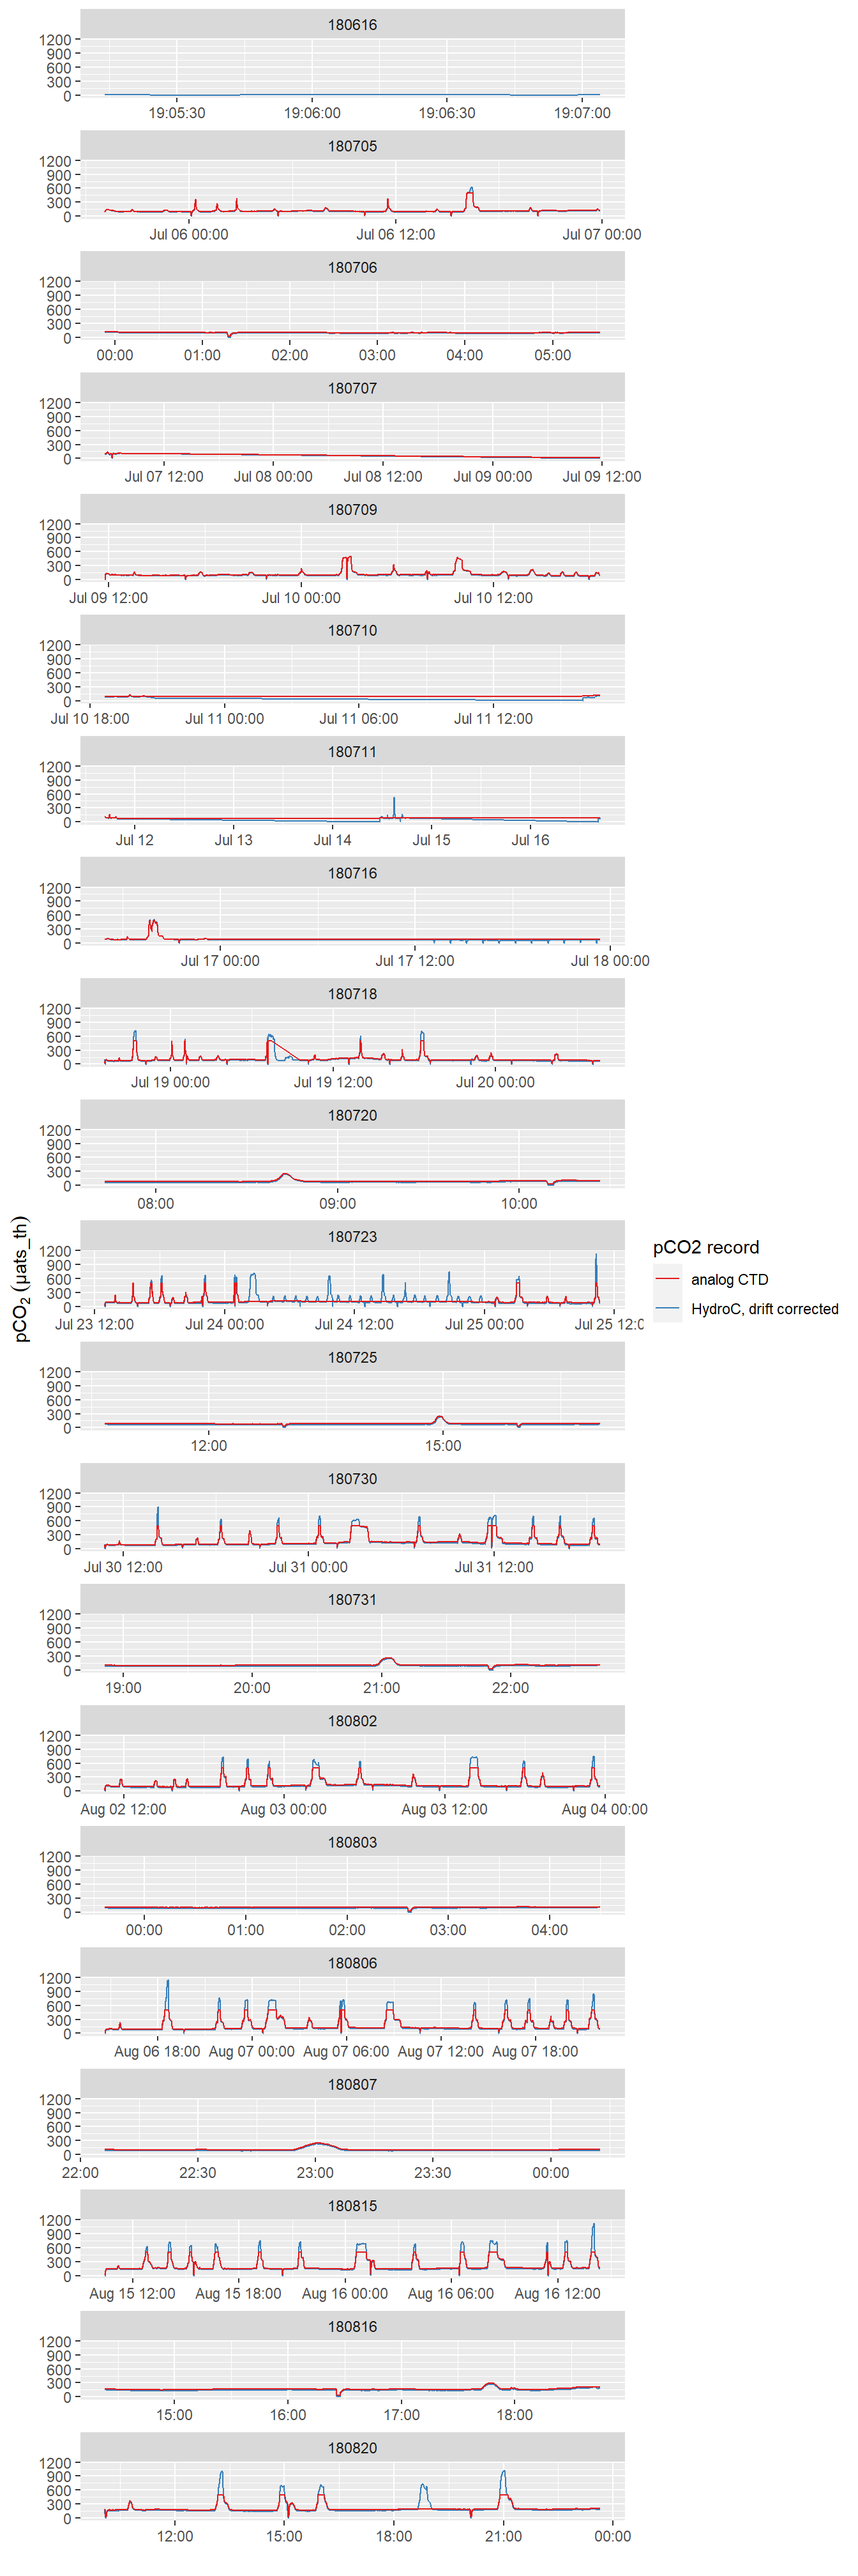
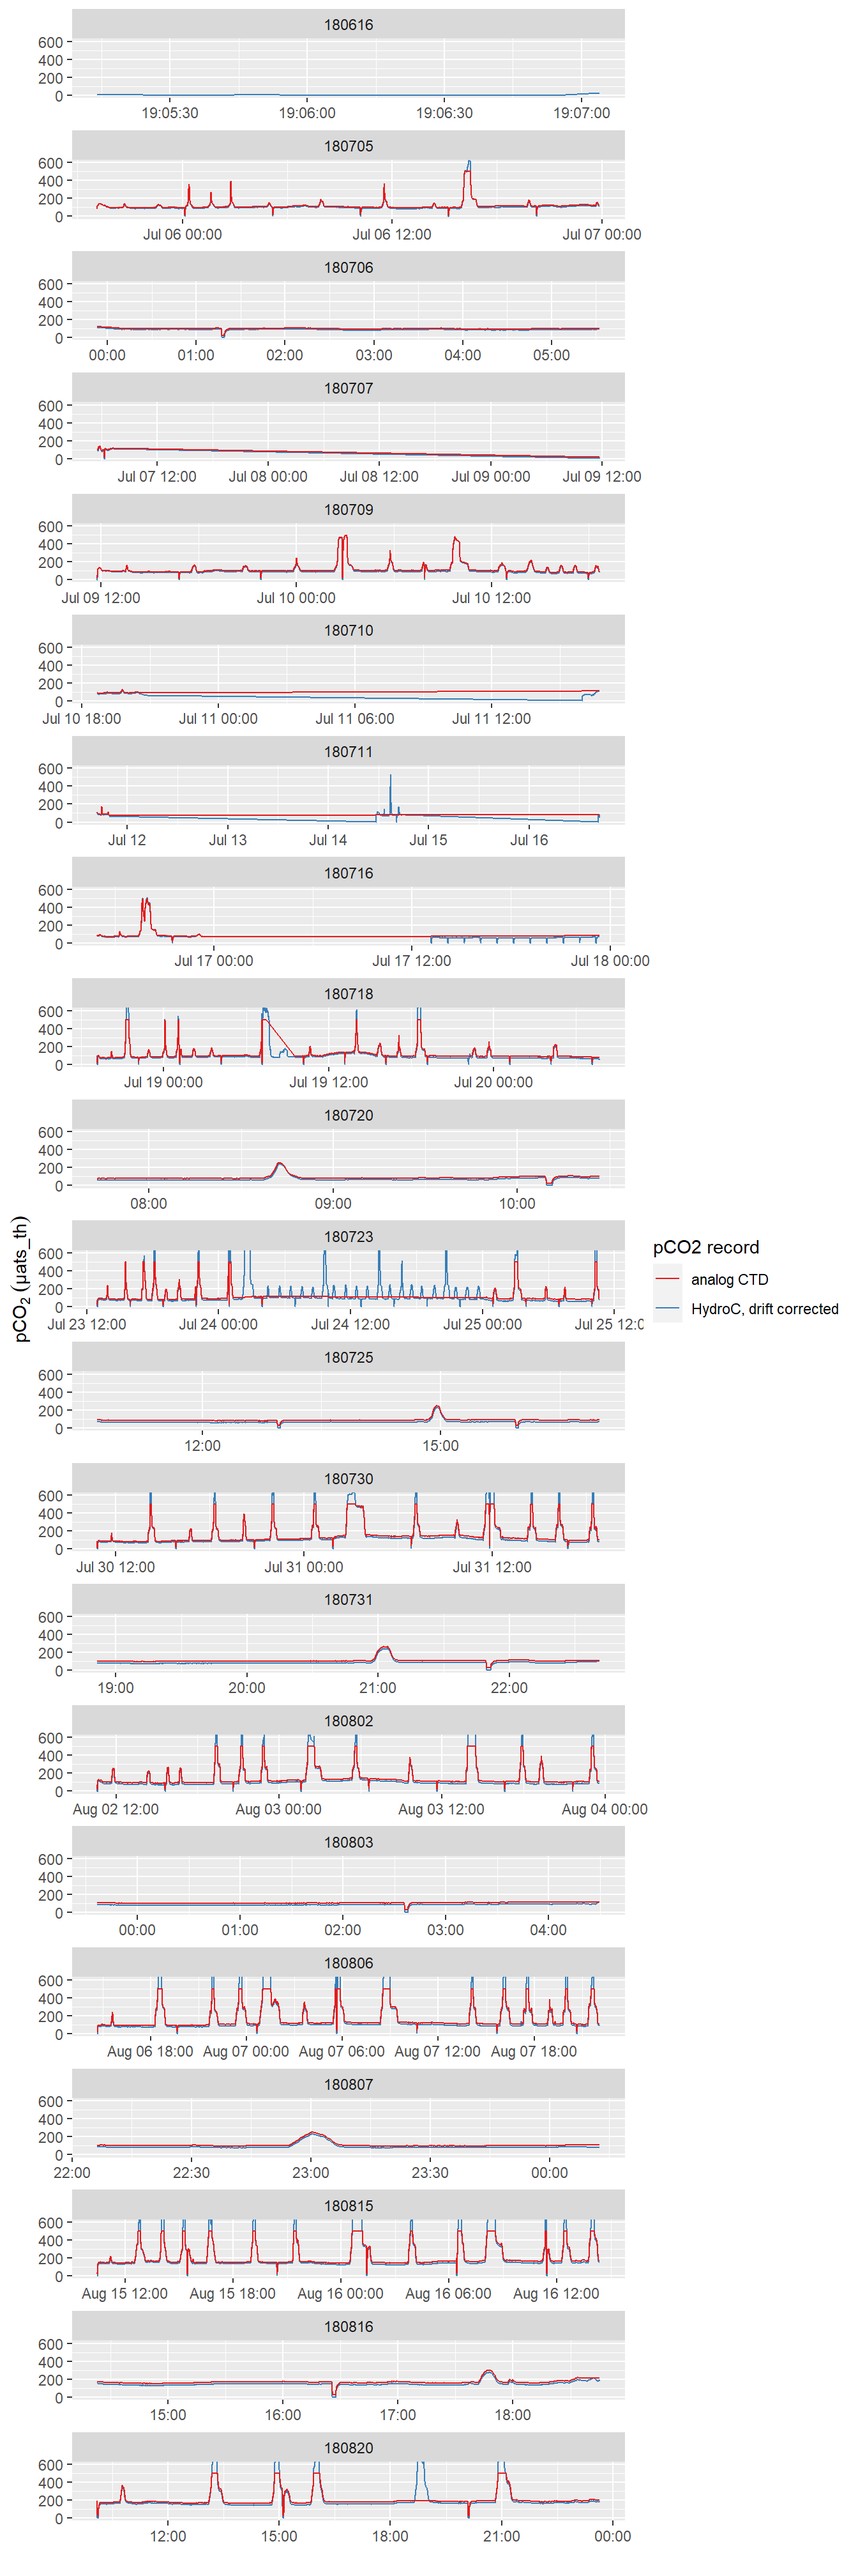
Build site.

diff --git a/docs/merging_interpolation.html b/docs/merging_interpolation.html
@@ -442,7 +442,7 @@ div.tocify {
 
 <h1 class="title toc-ignore">Merging and interpolation of observations</h1>
 <h4 class="author">Jens Daniel Müller</h4>
-<h4 class="date">30 April, 2020</h4>
+<h4 class="date">04 May, 2020</h4>
 
 </div>
 
@@ -467,7 +467,7 @@ div.tocify {
 <div class="tab-content">
 <div id="summary" class="tab-pane fade in active">
 <p>
-<strong>Last updated:</strong> 2020-04-30
+<strong>Last updated:</strong> 2020-05-04
 </p>
 <p>
 <strong>Checks:</strong> <span class="glyphicon glyphicon-ok text-success" aria-hidden="true"></span> 7 <span class="glyphicon glyphicon-exclamation-sign text-danger" aria-hidden="true"></span> 0
@@ -558,16 +558,16 @@ This reproducible <a href="http://rmarkdown.rstudio.com">R Markdown</a> analysis
 <div class="panel panel-default">
 <div class="panel-heading">
 <p class="panel-title">
-<a data-toggle="collapse" data-parent="#workflowr-checks" href="#strongRepositoryversionstrongahrefhttpsgithubcomjensdanielmuellerBloomSailtree4f4ab082c406ae068b2265a5a861a26edc285dc6targetblank4f4ab08a"> <span class="glyphicon glyphicon-ok text-success" aria-hidden="true"></span> <strong>Repository version:</strong> <a href="https://github.com/jens-daniel-mueller/BloomSail/tree/4f4ab082c406ae068b2265a5a861a26edc285dc6" target="_blank">4f4ab08</a> </a>
+<a data-toggle="collapse" data-parent="#workflowr-checks" href="#strongRepositoryversionstrongahrefhttpsgithubcomjensdanielmuellerBloomSailtree30675329fe6a267b90c54a636a053f41cdd5b00etargetblank3067532a"> <span class="glyphicon glyphicon-ok text-success" aria-hidden="true"></span> <strong>Repository version:</strong> <a href="https://github.com/jens-daniel-mueller/BloomSail/tree/30675329fe6a267b90c54a636a053f41cdd5b00e" target="_blank">3067532</a> </a>
 </p>
 </div>
[2 lines of base64/hex data omitted]
 <div class="panel-body">
 <p>
 Great! You are using Git for version control. Tracking code development and connecting the code version to the results is critical for reproducibility.
 </p>
 <p>
-The results in this page were generated with repository version <a href="https://github.com/jens-daniel-mueller/BloomSail/tree/4f4ab082c406ae068b2265a5a861a26edc285dc6" target="_blank">4f4ab08</a>. See the <em>Past versions</em> tab to see a history of the changes made to the R Markdown and HTML files.
+The results in this page were generated with repository version <a href="https://github.com/jens-daniel-mueller/BloomSail/tree/30675329fe6a267b90c54a636a053f41cdd5b00e" target="_blank">3067532</a>. See the <em>Past versions</em> tab to see a history of the changes made to the R Markdown and HTML files.
 </p>
 <p>
 Note that you need to be careful to ensure that all relevant files for the analysis have been committed to Git prior to generating the results (you can use <code>wflow_publish</code> or <code>wflow_git_commit</code>). workflowr only checks the R Markdown file, but you know if there are other scripts or data files that it depends on. Below is the status of the Git repository when the results were generated:
@@ -585,6 +585,9 @@ Ignored files:
     Ignored:    data/_summarized_data_files/
     Ignored:    data/backup/
     Ignored:    output/Plots/Figures_publication/.tmp.drivedownload/
+
+Untracked files:
+    Untracked:  output/Plots/merging_interpolation/
 
 </code></pre>
 <p>
@@ -623,6 +626,40 @@ Message
 </tr>
 </thead>
 <tbody>
+<tr>
+<td>
+Rmd
+</td>
+<td>
+<a href="https://github.com/jens-daniel-mueller/BloomSail/blob/30675329fe6a267b90c54a636a053f41cdd5b00e/analysis/merging_interpolation.Rmd" target="_blank">3067532</a>
+</td>
+<td>
+jens-daniel-mueller
+</td>
+<td>
+2020-05-04
+</td>
+<td>
+revise time sync
+</td>
+</tr>
+<tr>
+<td>
+html
+</td>
+<td>
+<a href="https://rawcdn.githack.com/jens-daniel-mueller/BloomSail/38327336cf5715333766ea7d661e388e6d0af786/docs/merging_interpolation.html" target="_blank">3832733</a>
+</td>
+<td>
+jens-daniel-mueller
+</td>
+<td>
+2020-04-30
+</td>
+<td>
+Build site.
+</td>
+</tr>
 <tr>
 <td>
 Rmd
@@ -1446,62 +1483,50 @@ ts_th &lt;- ts_th %&gt;%
   filter(!is.na(dep)) %&gt;% #remove HC readings not falling in regular transects/profilings
   select(- dep_maxgap) %&gt;% 
   fill(ID, type, station) %&gt;% 
-  filter(!is.na(deployment) | is.na(pCO2_analog)) # removes CTD readings without corresponding HydroC reading, except during periods when HydroC was not operating
+  filter(!is.na(deployment)) # removes CTD readings without corresponding HydroC reading
 
-# ts_th_full &lt;-
-#   ts_th_full %&gt;%
-#   mutate(dep = na.approx(dep, na.rm = FALSE, maxgap = 20),
-#          sal = na.approx(sal, na.rm = FALSE, maxgap = 20),
-#          tem = na.approx(tem, na.rm = FALSE, maxgap = 20),
-#          pCO2_analog = na.approx(pCO2_analog, na.rm = FALSE, maxgap = 20),
-#          pH = na.approx(pH, na.rm = FALSE, maxgap = 20),
-#          V_pH = na.approx(V_pH, na.rm = FALSE, maxgap = 20),
-#          O2 = na.approx(O2, na.rm = FALSE, maxgap = 20),
-#          Chl = na.approx(Chl, na.rm = FALSE, maxgap = 20)) %&gt;% 
-#   filter(!is.na(dep)) %&gt;% #remove HC readings not falling in regular transects/profilings
-#   fill(ID, type, station) %&gt;% 
-#   filter(!is.na(deployment) | is.na(pCO2_analog)) # removes CTD readings without corresponding HydroC reading, except during periods when HydroC was not operating
+  # filter(!is.na(deployment) | is.na(pCO2_analog)) # removes CTD readings without corresponding HydroC reading, except during periods when HydroC was not operating
 
-# Time stamp synchronzity -------------------------------------------------
+
+# # Time stamp synchronzity
 # 
-# ts_th &lt;- ts_th %&gt;% 
-#   mutate(day = yday(date_time))
+# ts_th_Zero &lt;- ts_th %&gt;% 
+#   filter(Zero == 1 | Flush == 1)
 # 
-# for (dayID in unique(ts_th$day)) {
+# pdf(file=here::here(&quot;output/Plots/merging_interpolation&quot;,
+#                     &quot;Zero_time_synchronization.pdf&quot;),
+#     onefile = TRUE, width = 5, height = 5)
+# 
+# for (i_deployment in unique(ts_th$deployment)) {
+# 
+#   #i_deployment &lt;- unique(ts_th_Zero$deployment)[1]
 #   
-#   ts_th %&gt;%
-#     filter(day == dayID) %&gt;% 
-#       ggplot()+
-#       geom_point(aes(date_time, pCO2, col=&quot;HC&quot;))+
-#       geom_point(aes(date_time, dep, col=&quot;dep&quot;))+
-#       geom_point(aes(date_time, pH, col=&quot;pH&quot;))+
-#       geom_point(aes(date_time, pCO2_analog, col=&quot;Sensor_int&quot;))
+#   ts_th_Zero_deployment &lt;- ts_th_Zero %&gt;%
+#     filter(deployment == i_deployment)
+# 
+#   for (i_Zero_counter in unique(ts_th_Zero_deployment$Zero_counter)) {
+#     
+#     #i_Zero_counter &lt;- unique(ts_th_Zero_deployment$Zero_counter)[1]
+#     
+#     print(
 #       
-#     ggsave(here::here(&quot;/Plots/TinaV/Sensor/HydroC_diagnostics/Timing/day&quot;,
-#                       paste(dayID,&quot;_day_HydroC_merged.jpg&quot;, sep=&quot;&quot;)),
-#            width = 10, height = 4)
+#     ts_th_Zero_deployment %&gt;%
+#       filter(Zero_counter == i_Zero_counter) %&gt;%
+#       ggplot()+
+#       geom_point(aes(date_time, pCO2_corr, col=&quot;HydroC&quot;))+
+#       geom_point(aes(date_time, pCO2_analog, col=&quot;analog&quot;))+
+#       labs(title = paste(&quot;Depl: &quot;,i_deployment,
+#                          &quot; | Zero_counter: &quot;, i_Zero_counter))
+#     
+#     )
+# 
+#   }
 # }
 # 
+# dev.off()
 # 
-# for (depID in unique(ts_th$deployment)) {
-#   
-#   ts_th_dep &lt;- ts_th %&gt;%
-#     filter(deployment == depID, Zero == 1)
-#   
-#   for (zerID in unique(ts_th_dep$Zero_counter)) {
-#     
-#     ts_th_dep %&gt;%
-#       filter(Zero_counter == zerID) %&gt;% 
-#       ggplot()+
-#       geom_point(aes(date_time, pCO2, col=&quot;HC&quot;))+
-#       geom_point(aes(date_time, pCO2_analog, col=&quot;Sensor_int&quot;))
-#     
-#     ggsave(here::here(&quot;/Plots/TinaV/Sensor/HydroC_diagnostics/Timing/Zeroing&quot;,
-#                       paste(depID,&quot;_deployment_&quot;,zerID,&quot;_Zero_counter_HydroC.jpg&quot;, sep=&quot;&quot;)),
-#            width = 10, height = 4)
-#     
-#   }
-# }</code></pre>
+# ts_th %&gt;% 
+#   filter(deployment == 21)</code></pre>
 </div>
 <div id="write-merged-file" class="section level2">
 <h2>Write merged file</h2>
@@ -1534,6 +1559,7 @@ ts_th %&gt;%
   geom_path(aes(date_time, pCO2_corr, col = &quot;HydroC, drift corrected&quot;))+
   geom_path(aes(date_time, pCO2_analog, col = &quot;analog CTD&quot;))+
   scale_color_brewer(palette = &quot;Set1&quot;, name = &quot;pCO2 record&quot;)+
+  coord_cartesian(ylim = c(0,600))+
   labs(y=expression(pCO[2]~(µats_th)), x=&quot;&quot;)+
   facet_wrap(~ID, scales = &quot;free_x&quot;, ncol = 1)</code></pre>
 <div class="figure" style="text-align: center">
@@ -1553,9 +1579,9 @@ pCO<sub>2</sub> record after interpolation to HydroC timestamp (analog output fr
   labs(y=expression(pCO[2]~(µats_th)), x=&quot;&quot;)+
   facet_wrap(~ID, scales = &quot;free_x&quot;, ncol = 1)</code></pre>
 <div class="figure" style="text-align: center">
-<img src="figure/merging_interpolation.Rmd/pCO2_diff_time_series-1.png" alt="pCO~2~ difference betweeb HydroC and drift corrected data provided by Contos. Please note that pCO2 range is restricted to +/- 50  µats_th." width="672" />
+<img src="figure/merging_interpolation.Rmd/pCO2_diff_time_series-1.png" alt="pCO~2~ difference betweeb HydroC and drift corrected data provided by Contos. Please note that pCO2 range is restricted to +/- 50  µatm." width="672" />
 <p class="caption">
-pCO<sub>2</sub> difference betweeb HydroC and drift corrected data provided by Contos. Please note that pCO2 range is restricted to +/- 50 µats_th.
+pCO<sub>2</sub> difference betweeb HydroC and drift corrected data provided by Contos. Please note that pCO2 range is restricted to +/- 50 µatm.
 </p>
 </div>
 </div>
